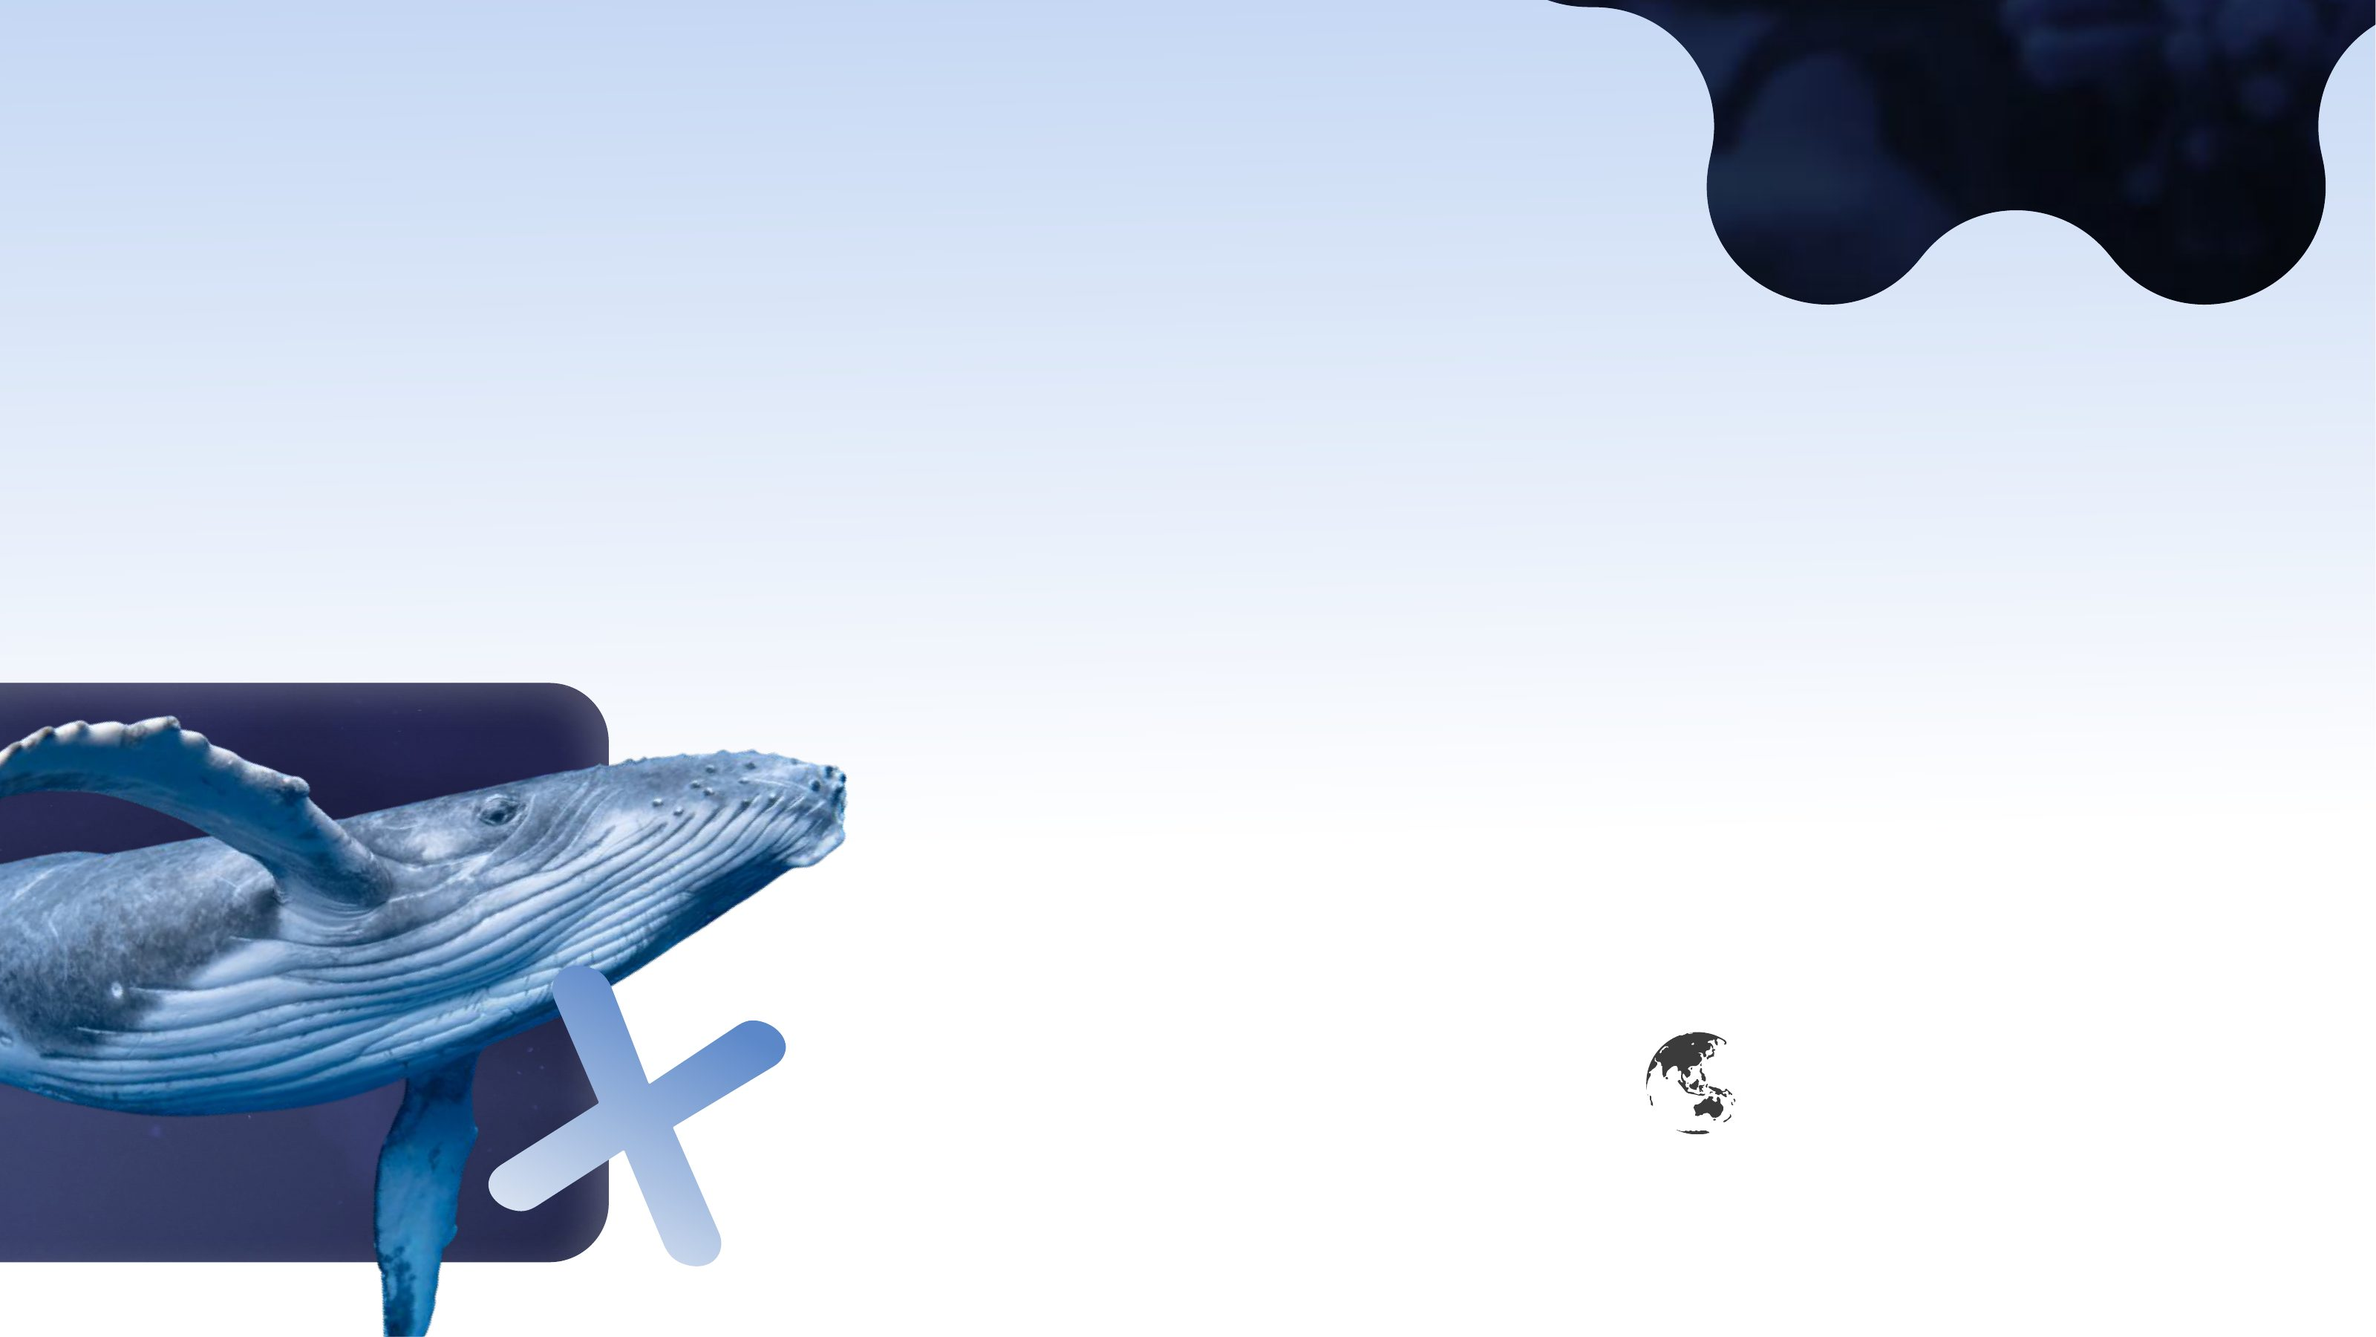
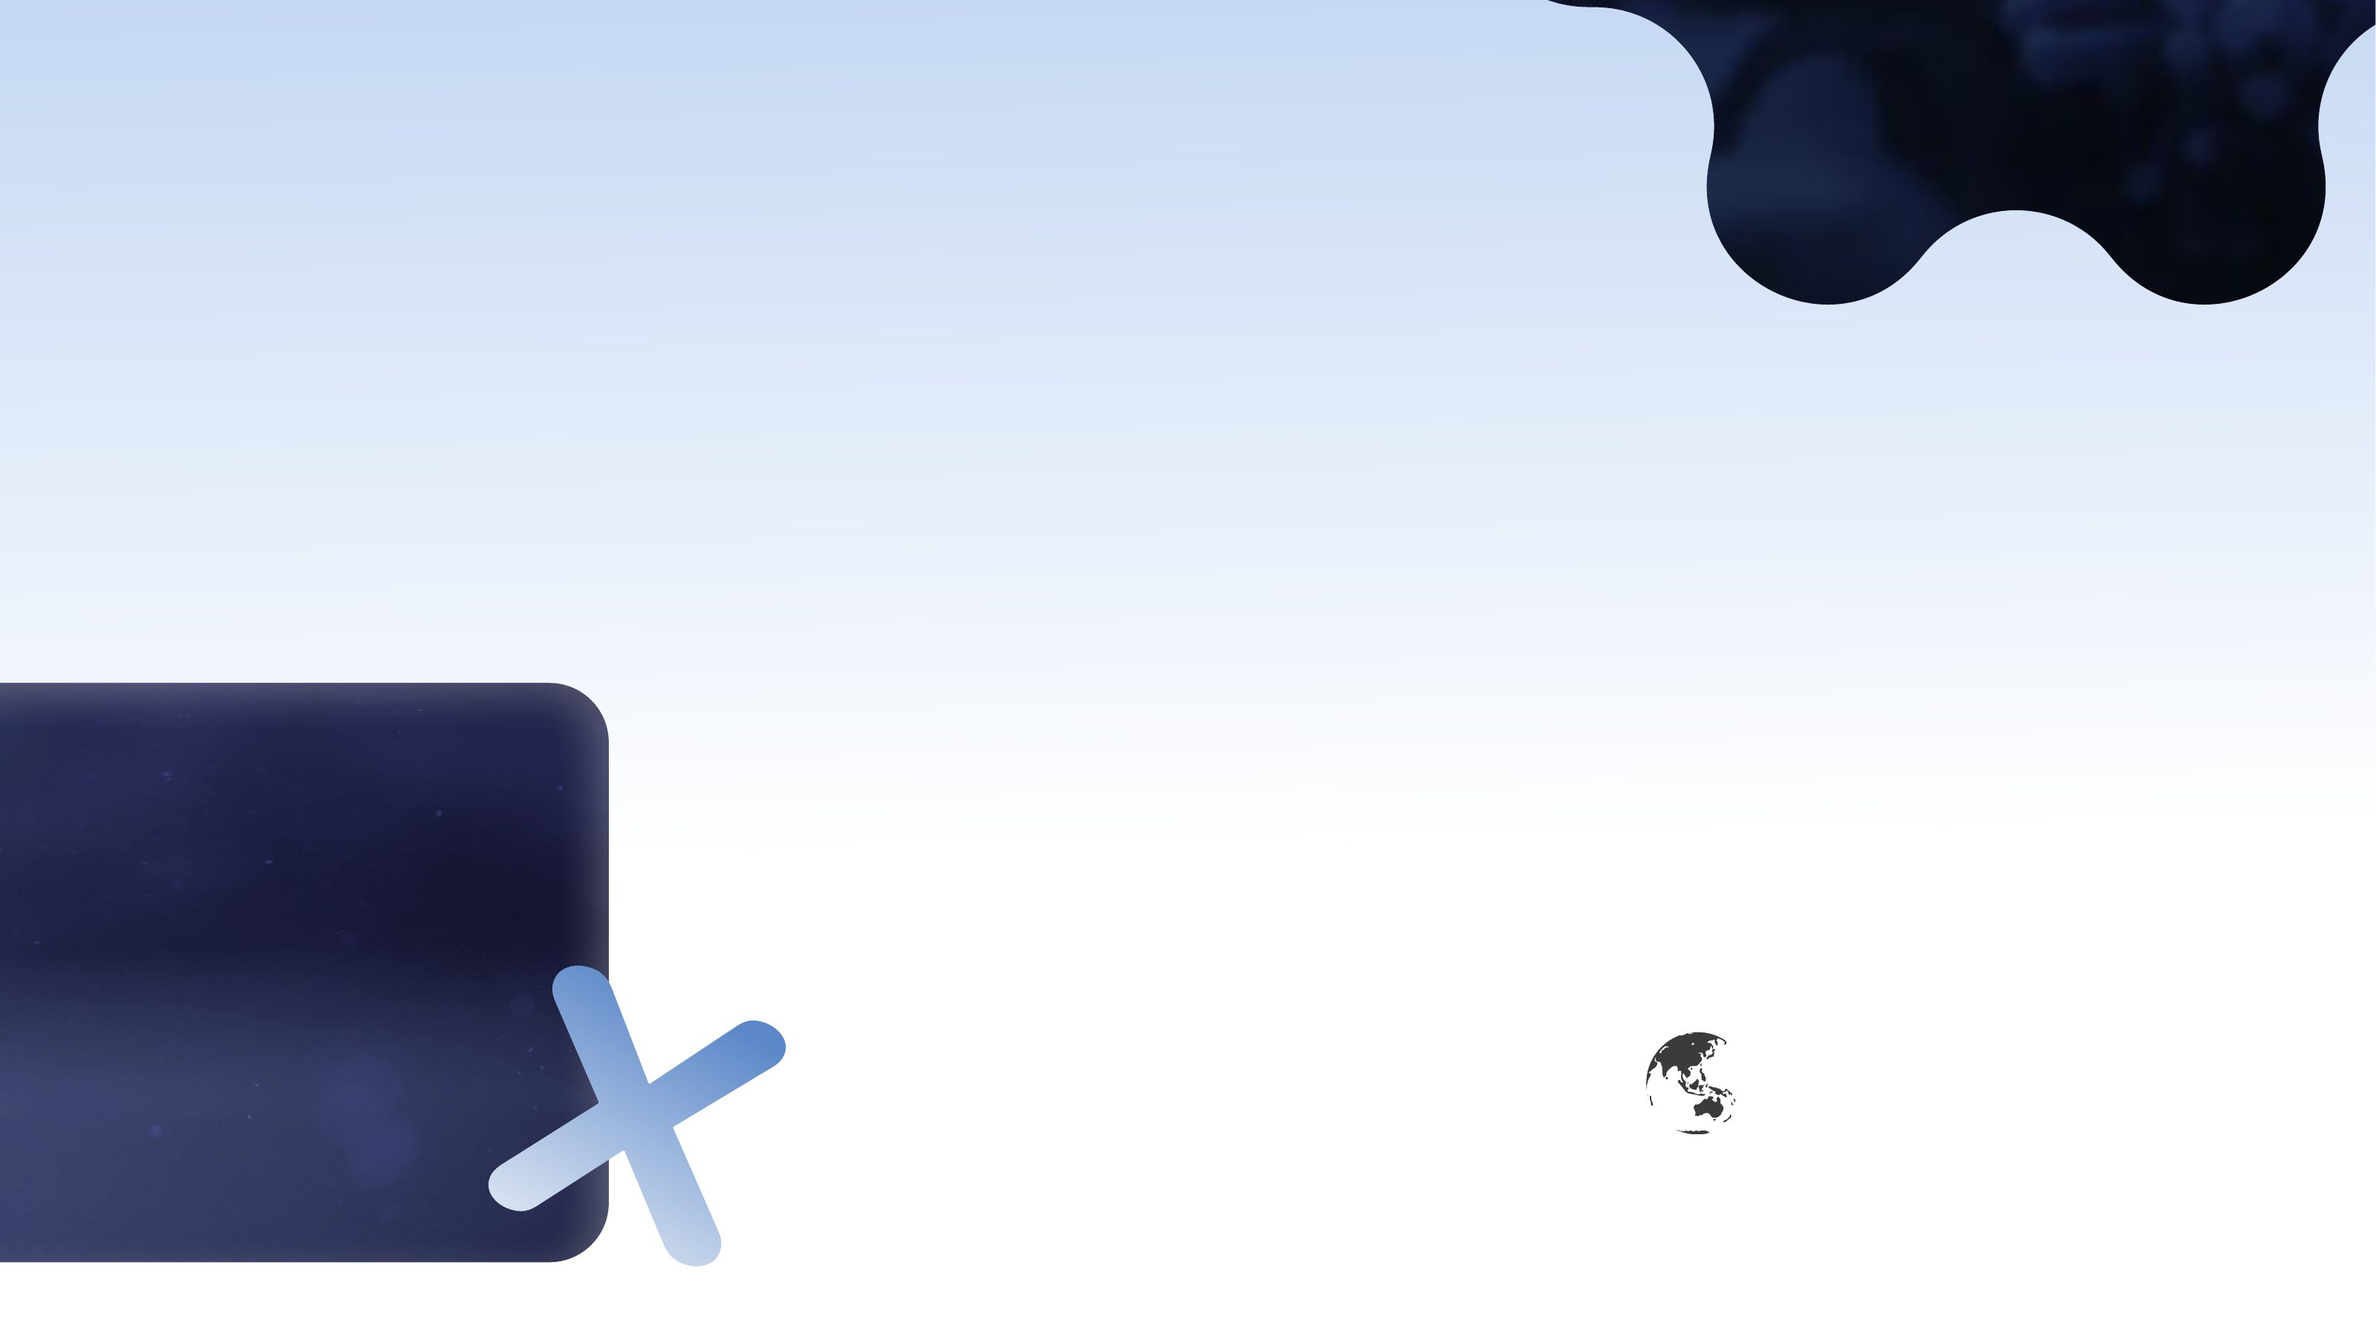
h

Changed region(s): [[0.0, 0.5289, 0.375, 1.0], [0.6875, 0.7778, 0.75, 0.84]]

diff --git a/index.html b/index.html
@@ -63,6 +63,10 @@
   <!-- ========== 1. HERO ========== -->
   <section class="sec" id="home">
     <img class="art" src="img/section-1.jpg" alt="" />
+    <div class="pop" tabindex="0" style="left:771px;top:524px;width:829px;height:376px;--o:100% 100%">
+      <img src="img/manta.webp" alt="Manty the manta ray" />
+      <span class="bubble" aria-hidden="true">Hello, I’m Manty the Manta Ray!</span>
+    </div>
 
     <h1 class="t display dark" data-r="40,240,490,340" aria-label="Dive Into an Xtraordinary Xperience" style="left:50px;top:256px;font-size:85.9px;letter-spacing:-0.0345em">D&nbsp;&nbsp;ve Into an</h1>
     <p class="t display grad" data-r="40,340,1175,460" data-t="50,348,1163,450" aria-hidden="true" style="left:49px;top:334px;font-size:109.8px;letter-spacing:-0.0313em;--g:linear-gradient(180deg,#C7DCFF,#335FA3)">#XtraordinaryXperience</p>
@@ -77,6 +81,9 @@
   <!-- ========== 2. ABOUT ========== -->
   <section class="sec" id="about-us">
     <img class="art" src="img/section-2.jpg" alt="" />
+    <div class="pop" tabindex="0" style="left:0px;top:481px;width:572px;height:441px;--o:0% 55%">
+      <img src="img/whale.webp" alt="Humpback whale" />
+    </div>
 
     <h2 class="t display dark" data-r="40,1020,580,1140" style="left:50px;top:144px;font-size:99.3px;letter-spacing:-0.0238em">Beneath the</h2>
     <h2 class="t display dark" data-r="615,1240,1390,1340" style="left:623px;top:331px;font-size:116.1px;letter-spacing:-0.0328em">Surface Lies an</h2>
@@ -107,16 +114,47 @@
 
     <p class="t body semi dark" data-r="1195,2180,1565,2245" data-a="r" style="right:47px;top:386px;text-align:right;font-size:22.2px;line-height:28.2px">Step beneath the waves and into a<br />world where every corner tells a story.</p>
 
-    <div class="stop" data-r="180,1995,385,2065" style="left:185px;top:205px;--c:#C28FAE"><h3>Sea Tunnel</h3><p>Glide through Southeast Asia’s<br />largest underwater tunnel</p></div>
-    <div class="stop" data-r="375,2150,565,2220" style="left:381px;top:359px;--c:#628BC8"><h3>Schooling Fish</h3><p>Witness the rhythm of ocean<br />life up close</p></div>
-    <div class="stop" data-r="650,2343,820,2415" style="left:656px;top:553px;--c:#92AB7F"><h3>Rainforest</h3><p>Where land meets water<br />in harmony</p></div>
-    <div class="stop" data-r="905,2468,1075,2535" style="left:911px;top:678px;--c:#6363A8"><h3>Jellyfish Realm</h3><p style="line-height:14.1px">Explore the beauty of light<br />and motion</p></div>
-    <div class="stop" data-r="1315,2378,1470,2450" style="left:1321px;top:588px;--c:#838383"><h3>Penguin Cove</h3><p>A glimpse of life from<br />the polar seas</p></div>
+    <div class="jstop">
+      <button type="button" class="hit" aria-label="Sea Tunnel" aria-expanded="false" style="left:94px;top:336.5px"></button>
+      <img class="pin" src="img/pin-tunnel.webp" alt="" style="left:63px;top:179px;width:111px;height:181px;transform-origin:55px 181.5px" />
+      <img class="scard" src="img/stopcard-tunnel.webp" alt="" style="left:131px;top:189px;width:258px;height:89px" />
+      <div class="stop" data-r="180,1995,385,2065" style="left:185px;top:205px;--c:#C28FAE"><h3>Sea Tunnel</h3><p>Glide through Southeast Asia’s<br />largest underwater tunnel</p></div>
+    </div>
+    <div class="jstop">
+      <button type="button" class="hit" aria-label="Schooling Fish" aria-expanded="false" style="left:289px;top:491.5px"></button>
+      <img class="pin" src="img/pin-fish.webp" alt="" style="left:257px;top:334px;width:112px;height:181px;transform-origin:56px 181.5px" />
+      <img class="scard" src="img/stopcard-fish.webp" alt="" style="left:325px;top:344px;width:259px;height:89px" />
+      <div class="stop" data-r="375,2150,565,2220" style="left:381px;top:359px;--c:#628BC8"><h3>Schooling Fish</h3><p>Witness the rhythm of ocean<br />life up close</p></div>
+    </div>
+    <div class="jstop">
+      <button type="button" class="hit" aria-label="Rainforest" aria-expanded="false" style="left:565px;top:432.5px"></button>
+      <img class="pin" src="img/pin-forest.webp" alt="" style="left:533px;top:456px;width:112px;height:181px;transform-origin:56px 0.5px" />
+      <img class="scard" src="img/stopcard-forest.webp" alt="" style="left:604px;top:538px;width:259px;height:89px" />
+      <div class="stop" data-r="650,2343,820,2415" style="left:656px;top:553px;--c:#92AB7F"><h3>Rainforest</h3><p>Where land meets water<br />in harmony</p></div>
+    </div>
+    <div class="jstop">
+      <button type="button" class="hit" aria-label="Jellyfish Realm" aria-expanded="false" style="left:819px;top:806.5px"></button>
+      <img class="pin" src="img/pin-jelly.webp" alt="" style="left:787px;top:649px;width:112px;height:181px;transform-origin:56px 181.5px" />
+      <img class="scard" src="img/stopcard-jelly.webp" alt="" style="left:855px;top:659px;width:259px;height:89px" />
+      <div class="stop" data-r="905,2468,1075,2535" style="left:911px;top:678px;--c:#6363A8"><h3>Jellyfish Realm</h3><p style="line-height:14.1px">Explore the beauty of light<br />and motion</p></div>
+    </div>
+    <div class="jstop">
+      <button type="button" class="hit" aria-label="Penguin Cove" aria-expanded="false" style="left:1229px;top:726.5px"></button>
+      <img class="pin" src="img/pin-cove.webp" alt="" style="left:1197px;top:569px;width:112px;height:181px;transform-origin:56px 181.5px" />
+      <img class="scard" src="img/stopcard-cove.webp" alt="" style="left:1265px;top:579px;width:259px;height:89px" />
+      <div class="stop" data-r="1315,2378,1470,2450" style="left:1321px;top:588px;--c:#838383"><h3>Penguin Cove</h3><p>A glimpse of life from<br />the polar seas</p></div>
+    </div>
   </section>
 
   <!-- ========== 4. MEMORIES ========== -->
   <section class="sec" id="memories">
     <img class="art" src="img/section-4.jpg" alt="" />
+    <div class="pop" tabindex="0" style="left:0px;top:88px;width:381px;height:374px;--o:0% 25%">
+      <img src="img/sloth.webp" alt="Sloth hanging from a branch" />
+    </div>
+    <div class="pop" tabindex="0" style="left:893px;top:478px;width:613px;height:488px;--o:45% 45%">
+      <img src="img/penguin.webp" alt="Penguin swimming" />
+    </div>
 
     <h2 class="t display dark" data-r="345,2970,870,3060" style="left:356px;top:267px;font-size:92.6px;letter-spacing:-0.0306em">Memories as</h2>
     <p class="t display grad" data-r="610,3055,1360,3160" data-t="620,3064,1347,3148" style="left:615px;top:349px;font-size:92.6px;letter-spacing:-0.0230em;--g:linear-gradient(180deg,#D3E1F7,#86A2CF)">Deep as the Ocean</p>
@@ -129,13 +167,29 @@
   <!-- ========== 5. SHOWS ========== -->
   <section class="sec" id="events">
     <img class="art" src="img/section-5.jpg" alt="" />
+    <div class="event" tabindex="0" aria-label="Daily Feeding Shows" style="left:50px;top:47px;width:360px;height:407px">
+      <img class="lift" src="img/card-feeding.webp" alt="" style="left:0px;top:0px;width:360px;height:391px" />
+      <img class="animal" src="img/otter.webp" alt="" style="--o:50% 100%;left:41px;top:214px;width:263px;height:193px" />
+    </div>
+    <div class="event" tabindex="0" aria-label="Penguin Parade" style="left:1189px;top:66px;width:411px;height:357px">
+      <img class="lift" src="img/card-parade.webp" alt="" style="left:0px;top:0px;width:357px;height:357px" />
+      <img class="animal" src="img/chick.webp" alt="" style="--o:100% 100%;left:116px;top:130px;width:295px;height:227px" />
+    </div>
+    <div class="event" tabindex="0" aria-label="Mermaid Performances" style="left:47px;top:587px;width:553px;height:261px">
+      <img class="lift" src="img/card-mermaid.webp" alt="" style="left:0px;top:75px;width:553px;height:186px" />
+      <img class="animal" src="img/mermaid.webp" alt="" style="--o:50% 100%;left:140px;top:0px;width:383px;height:261px" />
+    </div>
+    <div class="event" tabindex="0" aria-label="Sea Theatre and Amphitheater Shows" style="left:1001px;top:565px;width:359px;height:176px">
+      <img class="lift" src="img/card-theatre.webp" alt="" style="left:0px;top:0px;width:359px;height:171px" />
+      <h3 class="t sf dark lift" data-r="1025,4180,1335,4255" style="left:34px;top:28px;width:300px;text-align:center;font-size:32.9px;line-height:25.4px">Sea Theatre &amp;<br />Amphitheater Shows</h3>
+      <img class="animal" src="img/theatre.webp" alt="" style="--o:0% 100%;left:0px;top:67px;width:219px;height:109px" />
+    </div>
     <h3 class="sr-only">Daily Feeding Shows, Penguin Parade, Mermaid Performances</h3>
 
     <h2 class="t display dark" data-r="470,3860,1020,4040" data-a="r" style="right:591px;top:273px;text-align:right;font-size:80px;letter-spacing:-0.0294em;line-height:87.3px"><span style="display:block;padding-right:0.375em">Experience the<span class="sr-only"> Sea</span></span><span style="display:block">Come to Life</span></h2>
 
     <p class="t body dark" data-r="550,4045,1090,4130" style="left:560px;top:459px;font-size:37.5px;line-height:30.9px;letter-spacing:-0.02em">Witness the ocean’s magic unfold<br />up close, alive, and unforgettable.</p>
 
-    <h3 class="t sf dark" data-r="1025,4180,1335,4255" style="left:1035px;top:593px;width:300px;text-align:center;font-size:32.9px;line-height:25.4px">Sea Theatre &amp;<br />Amphitheater Shows</h3>
 
     <p class="t body bold sky" data-r="1235,4390,1545,4445" style="left:1241px;top:794px;font-size:39.1px">...and many more!</p>
   </section>

diff --git a/styles.css b/styles.css
@@ -48,14 +48,15 @@ body {
   position: relative;
   width: 1600px;
   height: 900px;
-  overflow: hidden;
+  overflow-x: clip;
+  overflow-y: visible;
 }
 
 .art {
   position: absolute;
   inset: 0;
   width: 1600px;
-  height: 900px;
+  height: 902px; /* 2px overlap hides the hairline seam between sections */
   display: block;
   user-select: none;
   pointer-events: none;
@@ -221,6 +222,91 @@ body {
 .sr-only {
   position: absolute; width: 1px; height: 1px; padding: 0; margin: -1px;
   overflow: hidden; clip: rect(0 0 0 0); white-space: nowrap; border: 0;
+}
+
+/* ---------- hoverable animals ---------- */
+.t { z-index: 3; }
+.pop, .event { position: absolute; z-index: 2; outline: none; }
+.pop { cursor: pointer; }
+.pop > img {
+  display: block; width: 100%; height: 100%;
+  transform-origin: var(--o, 50% 100%);
+  transition: transform .45s cubic-bezier(.34, 1.56, .64, 1), filter .45s ease;
+  will-change: transform;
+}
+.pop:hover > img, .pop:focus-visible > img, .pop.tapped > img {
+  transform: scale(1.06);
+  filter: drop-shadow(0 16px 22px rgba(15, 58, 129, .28));
+}
+
+/* Manty's speech bubble */
+.bubble {
+  position: absolute; left: 300px; top: -34px;
+  padding: 12px 20px; border-radius: 20px 20px 20px 4px;
+  background: #fff; color: var(--navy);
+  font-family: var(--font-body); font-weight: 700; font-size: 20px; letter-spacing: -0.02em; white-space: nowrap;
+  box-shadow: 0 12px 30px rgba(15, 58, 129, .18);
+  opacity: 0; transform: translateY(10px) scale(.9); transform-origin: left bottom;
+  transition: opacity .3s ease, transform .4s cubic-bezier(.34, 1.56, .64, 1);
+  pointer-events: none;
+}
+.pop:hover .bubble, .pop:focus-visible .bubble, .pop.tapped .bubble { opacity: 1; transform: none; }
+
+/* ---------- hoverable event cards (section 5) ---------- */
+.event { cursor: pointer; }
+.event > img { position: absolute; display: block; }
+.event .lift, .event .animal {
+  transition: transform .45s cubic-bezier(.34, 1.56, .64, 1), filter .45s ease;
+  will-change: transform;
+}
+.event .animal { transform-origin: var(--o, 50% 100%); }
+.event:hover .lift, .event:focus-visible .lift, .event.tapped .lift {
+  transform: translateY(-8px);
+  filter: drop-shadow(0 18px 22px rgba(15, 58, 129, .22));
+}
+.event h3.lift { filter: none !important; }
+.event:hover .animal, .event:focus-visible .animal, .event.tapped .animal {
+  transform: translateY(-8px) scale(1.07);
+  filter: drop-shadow(0 14px 16px rgba(15, 58, 129, .25));
+}
+
+/* ---------- 20 Journeys: dots that open into a pin + card ---------- */
+.jstop { position: absolute; left: 0; top: 0; width: 0; height: 0; z-index: 4; pointer-events: none; }
+.jstop .hit {
+  position: absolute; width: 48px; height: 48px; padding: 0;
+  border: 0; border-radius: 50%; background: transparent;
+  pointer-events: auto; cursor: pointer;
+}
+.jstop .hit::after {            /* soft pulse so people know the dots do something */
+  content: ""; position: absolute; inset: 9px; border-radius: 50%;
+  border: 2px solid rgba(65, 105, 165, .55);
+  animation: pulse 2.2s ease-out infinite;
+}
+@keyframes pulse { 0% { transform: scale(.7); opacity: .9; } 100% { transform: scale(1.9); opacity: 0; } }
+.jstop .pin, .jstop .scard { position: absolute; display: block; }
+.jstop .pin {
+  opacity: 0; transform: scale(.15);
+  transition: transform .45s cubic-bezier(.34, 1.56, .64, 1), opacity .25s ease;
+}
+.jstop .scard {
+  opacity: 0;
+  clip-path: inset(0 100% 0 0 round 16px);
+  transition: clip-path .45s ease .12s, opacity .2s ease .12s;
+}
+.jstop .stop {
+  opacity: 0; transform: translateX(-10px);
+  transition: opacity .3s ease, transform .3s ease;
+}
+.jstop:hover .pin, .jstop.open .pin, .jstop:focus-within .pin { opacity: 1; transform: none; }
+.jstop:hover .scard, .jstop.open .scard, .jstop:focus-within .scard { opacity: 1; clip-path: inset(0 0 0 0 round 16px); }
+.jstop:hover .stop, .jstop.open .stop, .jstop:focus-within .stop { opacity: 1; transform: none; transition-delay: .3s; }
+.jstop:hover .pin, .jstop:hover .scard, .jstop:hover .stop,
+.jstop.open .pin, .jstop.open .scard, .jstop.open .stop { pointer-events: auto; }
+.jstop:hover .hit::after, .jstop.open .hit::after { animation: none; opacity: 0; }
+
+@media (prefers-reduced-motion: reduce) {
+  .jstop .hit::after { animation: none; }
+  .pop > img, .event .lift, .event .animal, .bubble { transition: none; }
 }
 
 /* ---------- button ---------- */

diff --git a/script.js b/script.js
@@ -85,3 +85,32 @@ function showError(msg, field) {
   errorBox.hidden = false;
   field.focus();
 }
+
+// ---------- Animals & event cards: tap to pop on touch screens ----------
+const poppers = [...document.querySelectorAll('.pop, .event')];
+poppers.forEach(el => {
+  el.addEventListener('click', () => {
+    const on = !el.classList.contains('tapped');
+    poppers.forEach(p => p.classList.remove('tapped'));
+    if (on) el.classList.add('tapped');
+  });
+  el.addEventListener('mouseleave', () => el.classList.remove('tapped'));
+});
+document.addEventListener('click', e => {
+  if (!e.target.closest('.pop, .event')) poppers.forEach(p => p.classList.remove('tapped'));
+});
+
+// ---------- 20 Journeys: tap a dot to open it on touch screens ----------
+const stops = [...document.querySelectorAll('.jstop')];
+stops.forEach(st => {
+  const btn = st.querySelector('.hit');
+  btn.addEventListener('click', e => {
+    e.stopPropagation();
+    const on = !st.classList.contains('open');
+    stops.forEach(o => { o.classList.remove('open'); o.querySelector('.hit').setAttribute('aria-expanded', 'false'); });
+    if (on) { st.classList.add('open'); btn.setAttribute('aria-expanded', 'true'); }
+  });
+});
+document.addEventListener('click', e => {
+  if (!e.target.closest('.jstop')) stops.forEach(o => { o.classList.remove('open'); o.querySelector('.hit').setAttribute('aria-expanded', 'false'); });
+});
